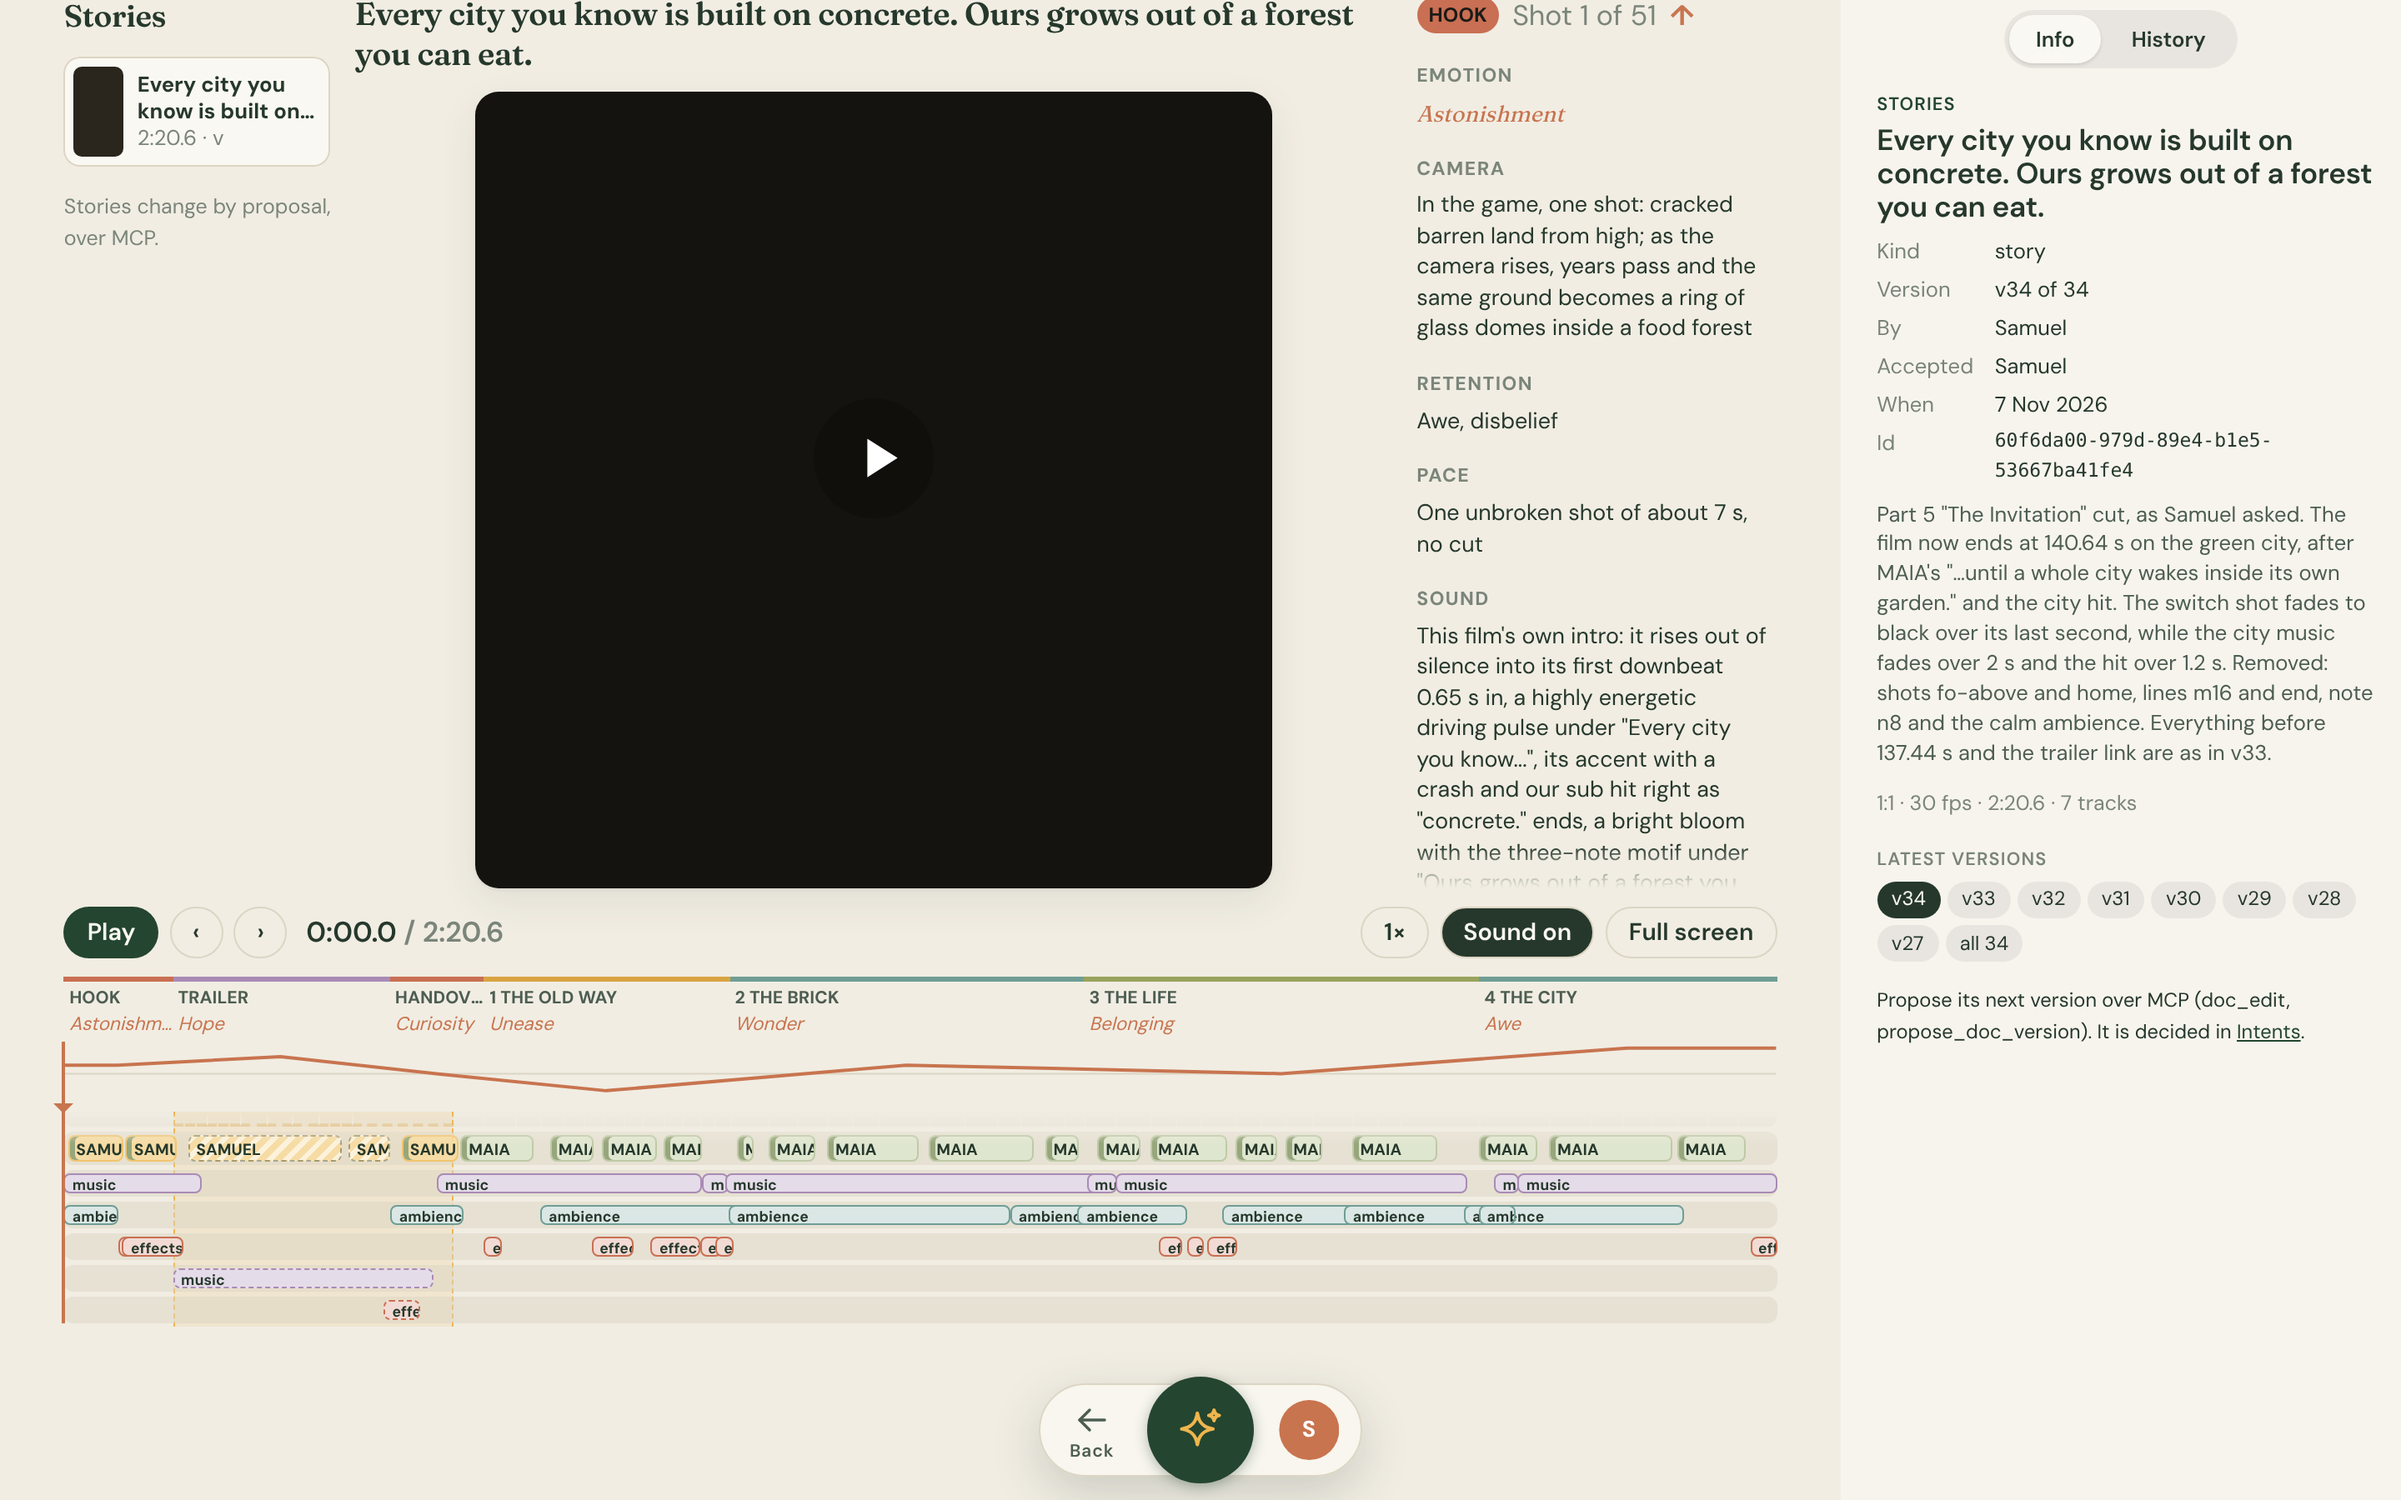
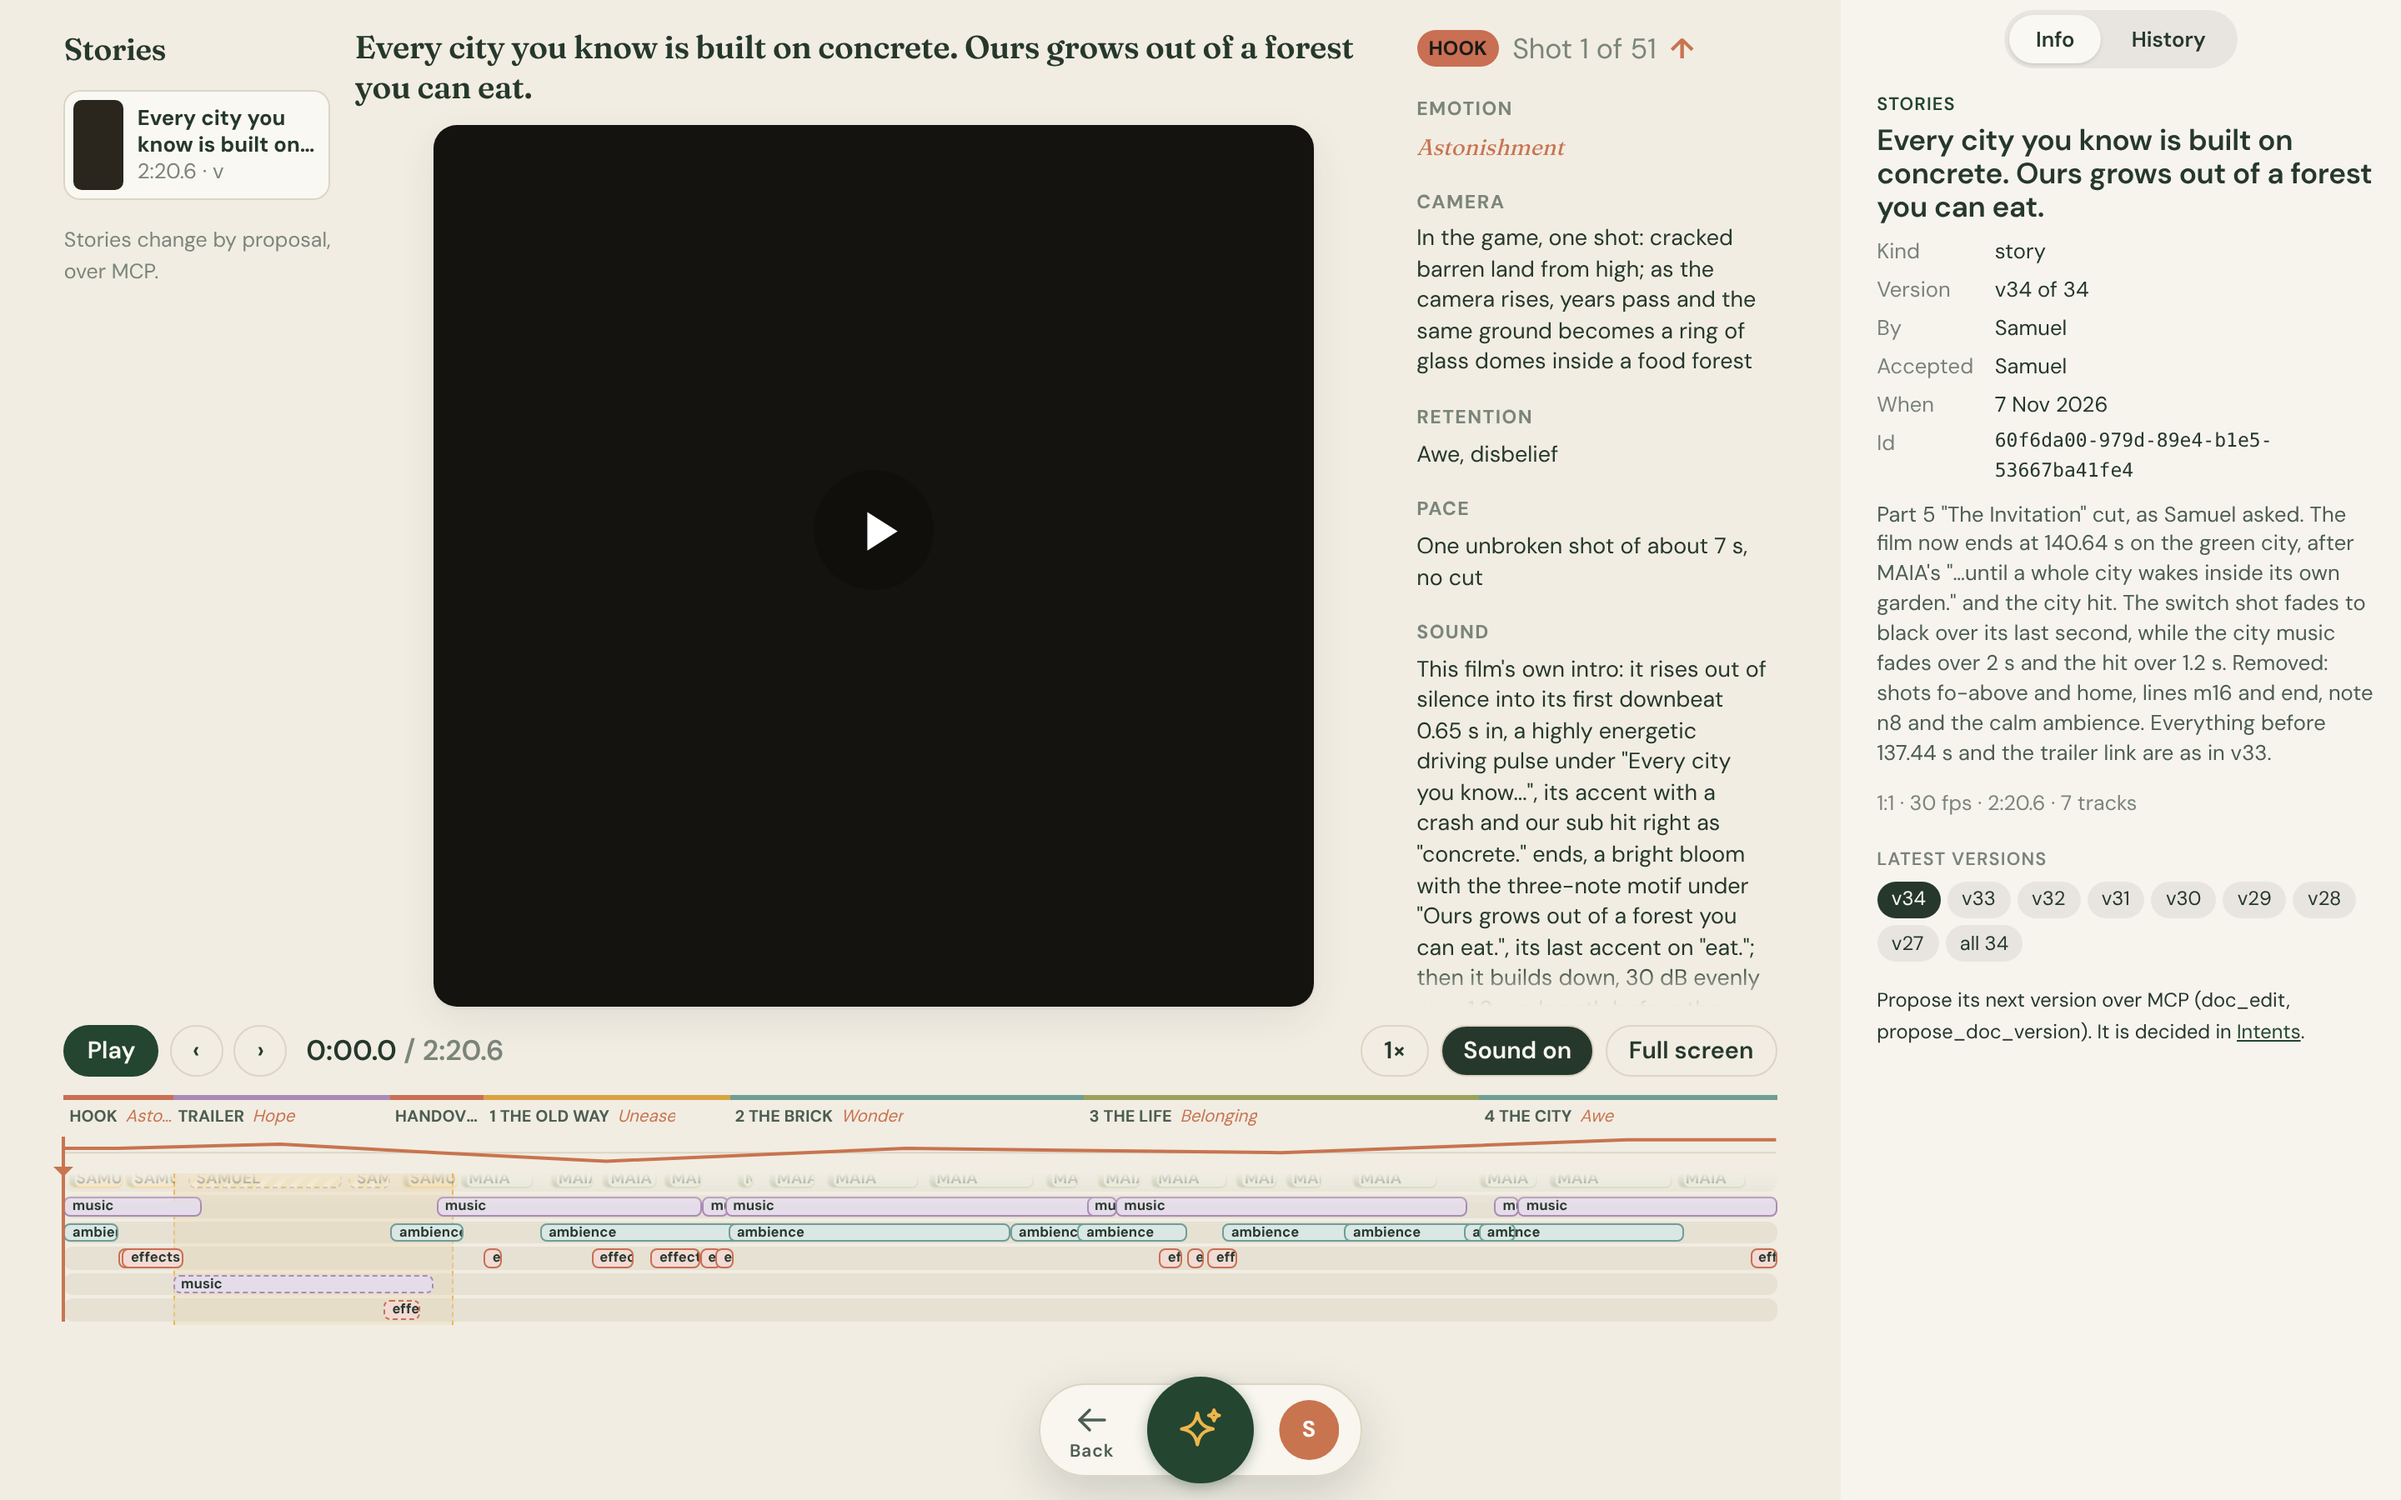
[4d47a98c] A still more compact timeline: at most min(16vh, 8.5rem)
Samuel's look on the shots: "make the timeline area in height even more compact".
- The timeline is at most min(16vh, 8.5rem), the sections row and the mood line included.
- The sections row is one line (the emotion beside the name), the mood line half as tall, the lanes slimmer (shots
  2rem, voice 1rem, each sound 0.85rem, links 1.1rem).
- The picture takes the room: at 1440x900 story 60f6da00's is 529px (378px on main), the timeline 136px (335px);
  the page no longer scrolls there. At 390x844 the 1:1 picture fills the width (358px), the timeline 135px (436px).
- The shots script prints what scrolls on the page; the shots and comparisons redrawn.

Intent: 4d47a98c-647f-40c5-92c5-a0936c934f32

Claude-Session: https://claude.ai/code/session_01E9zxn5Aj6KesTFP6tJqgvf

diff --git a/play/site/src/lib/stories/StoryPlayer.svelte b/play/site/src/lib/stories/StoryPlayer.svelte
@@ -437,7 +437,7 @@
 
 <svelte:window onkeydown={onKey} />
 
-<div class="player" class:compact class:framed={!!(list || side)} class:windowed={full && inWindow} style:--tl="min({6.3 + (shots.length ? 3.6 : 0) + soundTracks.length * 1.2 + (slots.length ? 1.8 : 0)}rem, 25vh, 13rem)">
+<div class="player" class:compact class:framed={!!(list || side)} class:windowed={full && inWindow} style:--tl="min({3.9 + (shots.length ? 2.15 : 0) + soundTracks.length * 1 + (slots.length ? 1.25 : 0)}rem, 16vh, 8.5rem)">
 	{#if list}<div class="p-list">{@render list()}</div>{/if}
 	{#if head}<div class="p-head">{@render head()}</div>{/if}
 	<!-- a tap on the picture plays and pauses it, as on any film player (Samuel 2026-11-04) -->
@@ -598,7 +598,7 @@
 	.p-head { grid-area: head; min-width: 0; }
 	/* the list and the rail fill the rows the title and the picture make and scroll inside them, never stretching them */
 	.framed .p-list, .framed .details { align-self: stretch; contain: size; overflow: auto; overscroll-behavior: contain; }
-	.framed .screen { justify-self: center; --h: min(var(--story-screen, clamp(15rem, calc(100vh - 13.4rem - var(--tl)), 760px)), calc((100cqw - 25.5rem) / var(--ratio))); }
+	.framed .screen { justify-self: center; --h: min(var(--story-screen, clamp(15rem, calc(100vh - 14.7rem - var(--tl)), 760px)), calc((100cqw - 25.5rem) / var(--ratio))); }
 	/* the rail's last lines fade out where it scrolls on, and scroll clear of the fade */
 	.framed .details { gap: 0.5rem; padding: 0 0.15rem 1.6rem 0; mask-image: linear-gradient(to bottom, #000 calc(100% - 1.6rem), transparent); }
 	.framed .field p { font-size: 0.84rem; line-height: 1.38; }
@@ -651,35 +651,35 @@
 	.controls .spacer { flex: 1; }
 	.btn.on { background: var(--ink); color: var(--paper); }
 	.timeline { display: grid; gap: 0.25rem; }
-	.sections { position: relative; height: 2.2rem; }
-	/* a section: its name, and under it the primary emotion it should leave the viewer with */
-	.section { position: absolute; top: 0; bottom: 0; display: flex; flex-direction: column; border-top: 3px solid; padding-top: 0.15rem; padding-left: 0.2rem; overflow: hidden; color: var(--ink-soft, #444); box-sizing: border-box; }
+	.sections { position: relative; height: 1.3rem; }
+	/* a section: its name, and beside it the primary emotion it should leave the viewer with, on one line */
+	.section { position: absolute; top: 0; bottom: 0; display: flex; align-items: baseline; gap: 0.3rem; border-top: 3px solid; padding-top: 0.1rem; padding-left: 0.2rem; overflow: hidden; color: var(--ink-soft, #444); box-sizing: border-box; }
 	.section b, .section em { white-space: nowrap; overflow: hidden; text-overflow: ellipsis; }
-	.section b { font-size: 0.66rem; font-weight: 700; }
-	.section em { font-size: 0.7rem; font-style: italic; color: var(--terracotta, #c96f53); }
+	.section b { font-size: 0.62rem; font-weight: 700; flex: none; max-width: 100%; }
+	.section em { font-size: 0.64rem; font-style: italic; min-width: 0; color: var(--terracotta, #c96f53); }
 	.field .emotion { font-family: var(--font-display); font-size: 1.05rem; font-style: italic; color: var(--terracotta, #c96f53); }
 	/* the lanes under the mood line scroll up and down inside the timeline, its height at most --tl (Samuel 2026-11-07);
 	   no scrollbar, which would narrow them against the time; a fade says there is more */
-	.lanes { position: relative; cursor: pointer; touch-action: pan-y; user-select: none; padding-top: 2.6rem; }
-	.lanes-scroll { position: relative; display: grid; gap: 3px; max-height: calc(var(--tl, 13rem) - 5.05rem); overflow-y: auto; overscroll-behavior: contain; scrollbar-width: none; touch-action: pan-y; }
+	.lanes { position: relative; cursor: pointer; touch-action: pan-y; user-select: none; padding-top: 1.35rem; }
+	.lanes-scroll { position: relative; display: grid; gap: 2px; max-height: calc(var(--tl, 8.5rem) - 2.9rem); overflow-y: auto; overscroll-behavior: contain; scrollbar-width: none; touch-action: pan-y; }
 	.lanes-scroll::-webkit-scrollbar { display: none; }
 	.lanes-scroll.more-down { mask-image: linear-gradient(to bottom, #000 calc(100% - 1.2rem), transparent); }
 	.lanes-scroll.more-up { mask-image: linear-gradient(to top, #000 calc(100% - 1.2rem), transparent); }
 	.lanes-scroll.more-up.more-down { mask-image: linear-gradient(transparent, #000 1.2rem, #000 calc(100% - 1.2rem), transparent); }
-	.mood-line { position: absolute; left: 0; right: 0; top: 0; height: 2.4rem; width: 100%; pointer-events: none; }
+	.mood-line { position: absolute; left: 0; right: 0; top: 0; height: 1.2rem; width: 100%; pointer-events: none; }
 	.mood-line line { stroke: var(--line); stroke-width: 1; vector-effect: non-scaling-stroke; }
 	.mood-line path { fill: none; stroke: var(--terracotta, #c96f53); stroke-width: 2; vector-effect: non-scaling-stroke; stroke-linejoin: round; }
 	.lane { position: relative; border-radius: 6px; background: color-mix(in srgb, var(--line) 50%, transparent); }
-	.shots-lane { height: 3.4rem; }
-	.compact .shots-lane { height: 2.8rem; }
-	.voice-lane { height: 1.25rem; }
+	.shots-lane { height: 2rem; }
+	.compact .shots-lane { height: 1.8rem; }
+	.voice-lane { height: 1rem; }
 	.diag { position: absolute; top: 4px; left: 4px; right: 4px; z-index: 5; margin: 0; padding: 4px 6px; border-radius: 6px; background: rgb(0 0 0 / 0.6); color: #fff; font: 10px/1.35 ui-monospace, monospace; white-space: pre-wrap; pointer-events: none; }
 	.seg { position: absolute; top: 0; bottom: 0; background-size: cover; background-position: center 35%; border-top: 3px solid; border-left: 1px solid rgb(255 255 255 / 0.7); box-sizing: border-box; filter: saturate(0.85) brightness(0.92); }
 	.seg.on { filter: none; box-shadow: inset 0 0 0 2px var(--ink); }
-	.bar { position: absolute; top: 2px; bottom: 2px; border-radius: 4px; background: var(--sage-soft, #dfe8dc); border: 1px solid color-mix(in srgb, var(--sage, #8fae8b) 60%, transparent); font-size: 0.6rem; font-weight: 700; padding: 0 0.25rem; overflow: hidden; white-space: nowrap; box-sizing: border-box; line-height: 1rem; }
+	.bar { position: absolute; top: 2px; bottom: 2px; border-radius: 4px; background: var(--sage-soft, #dfe8dc); border: 1px solid color-mix(in srgb, var(--sage, #8fae8b) 60%, transparent); font-size: 0.6rem; font-weight: 700; padding: 0 0.25rem; overflow: hidden; white-space: nowrap; box-sizing: border-box; line-height: calc(1rem - 6px); }
 	.bar.recorded { border-style: solid; box-shadow: inset 3px 0 0 color-mix(in srgb, var(--sage, #8fae8b) 90%, black); }
-	.sound-lane { height: 1rem; }
-	.bar.sound { background: color-mix(in srgb, var(--sky, #7c9cb8) 30%, white); border-color: color-mix(in srgb, var(--sky, #7c9cb8) 70%, transparent); line-height: 0.8rem; font-size: 0.55rem; }
+	.sound-lane { height: 0.85rem; }
+	.bar.sound { top: 1px; bottom: 1px; background: color-mix(in srgb, var(--sky, #7c9cb8) 30%, white); border-color: color-mix(in srgb, var(--sky, #7c9cb8) 70%, transparent); line-height: calc(0.85rem - 4px); font-size: 0.52rem; }
 	.bar.sound.music, .bar.sound.score { background: color-mix(in srgb, #a98bb5 30%, white); border-color: #a98bb5; }
 	.bar.sound.sfx { background: color-mix(in srgb, #c96f53 25%, white); border-color: #c96f53; }
 	/* a cue still to be made: its note in a dashed outline, read before anything is recorded */
@@ -690,10 +690,10 @@
 	.bar.samuel { background: var(--mustard-soft, #f3e3b5); border-color: color-mix(in srgb, var(--mustard, #d9a441) 60%, transparent); }
 	.bar.on { background: var(--ink); color: var(--paper); }
 	.playhead { position: absolute; top: 0; bottom: 0; width: 2px; margin-left: -1px; background: var(--terracotta, #c96f53); pointer-events: none; }
-	.playhead::before { content: ''; position: absolute; top: 2.3rem; left: -5px; border: 6px solid transparent; border-top-color: var(--terracotta, #c96f53); }
+	.playhead::before { content: ''; position: absolute; top: 1.1rem; left: -5px; border: 6px solid transparent; border-top-color: var(--terracotta, #c96f53); }
 	/* the links (Samuel 2026-11-04): a lane of blocks, each the story it plays, mustard as a picked version is; what a link
 	   lays in shows in its own lanes, lighter and dashed, so the film's own clips and the linked story's read apart */
-	.link-lane { height: 1.5rem; background: transparent; }
+	.link-lane { height: 1.1rem; background: transparent; }
 	.link { position: absolute; top: 0; bottom: 0; display: flex; align-items: center; gap: 0.35rem; padding: 0 0.45rem; box-sizing: border-box; border-radius: 6px; overflow: hidden; white-space: nowrap; text-decoration: none; color: var(--ink, #2b2a26); background: var(--mustard-soft, #f3e3b5); border: 1.5px solid var(--mustard, #d9a441); font-size: 0.66rem; line-height: 1; cursor: pointer; }
 	.link b { font-weight: 700; overflow: hidden; text-overflow: ellipsis; }
 	.link span { color: var(--ink-soft, #555); font-weight: 500; flex: none; }
@@ -704,7 +704,7 @@
 	.link.on { box-shadow: inset 0 0 0 1.5px var(--ink); }
 	.link.lost { background: transparent; border-style: dashed; border-color: var(--terracotta, #c96f53); color: var(--terracotta, #c96f53); }
 	/* the link's span, under every lane: a faint mustard wash between dashed edges */
-	.link-band { position: absolute; top: 2.6rem; bottom: -2px; border-left: 1.5px dashed var(--mustard, #d9a441); border-right: 1.5px dashed var(--mustard, #d9a441); background: color-mix(in srgb, var(--mustard, #d9a441) 13%, transparent); box-sizing: border-box; pointer-events: none; }
+	.link-band { position: absolute; top: 1.35rem; bottom: -2px; border-left: 1.5px dashed var(--mustard, #d9a441); border-right: 1.5px dashed var(--mustard, #d9a441); background: color-mix(in srgb, var(--mustard, #d9a441) 13%, transparent); box-sizing: border-box; pointer-events: none; }
 	/* a linked clip keeps its kind's colour (who speaks, which sound), hatched and dashed: laid in, not the story's own */
 	.seg.linked { border-top-style: dashed; border-bottom: 2px dashed var(--mustard, #d9a441); filter: saturate(0.7) brightness(0.98); }
 	.seg.linked.on { filter: none; }

diff --git a/play/site/scripts/story-room-shots.ts b/play/site/scripts/story-room-shots.ts
@@ -61,6 +61,8 @@ for (const size of SIZES) {
 		const sc = document.querySelector('.lanes-scroll') as HTMLElement | null;
 		return { picture: h('.screen'), timeline: h('.timeline'), lanesContent: sc?.scrollHeight ?? h('.lanes'), lanesShown: sc?.clientHeight ?? h('.lanes'), pageScrolls: document.scrollingElement!.scrollHeight > innerHeight };
 	});
+	const over = await page.evaluate(() => [...document.querySelectorAll('*')].filter((e) => e.scrollHeight > e.clientHeight + 1 && /(auto|scroll)/.test(getComputedStyle(e).overflowY) && !e.closest('.player')).map((e) => `${e.className || e.tagName}: ${e.scrollHeight - e.clientHeight}px more`));
+	console.log(`${LABEL} ${w}: scrolls ${over.join('; ') || 'nothing'}`);
 	console.log(`${LABEL} ${w}: picture ${m.picture}px, timeline ${m.timeline}px (lanes ${m.lanesShown}px shown of ${m.lanesContent}px)`);
 	// the timeline in sight (on a phone it is below the picture)
 	await page.locator('.timeline').evaluate((el) => el.scrollIntoView({ block: 'center' }));
